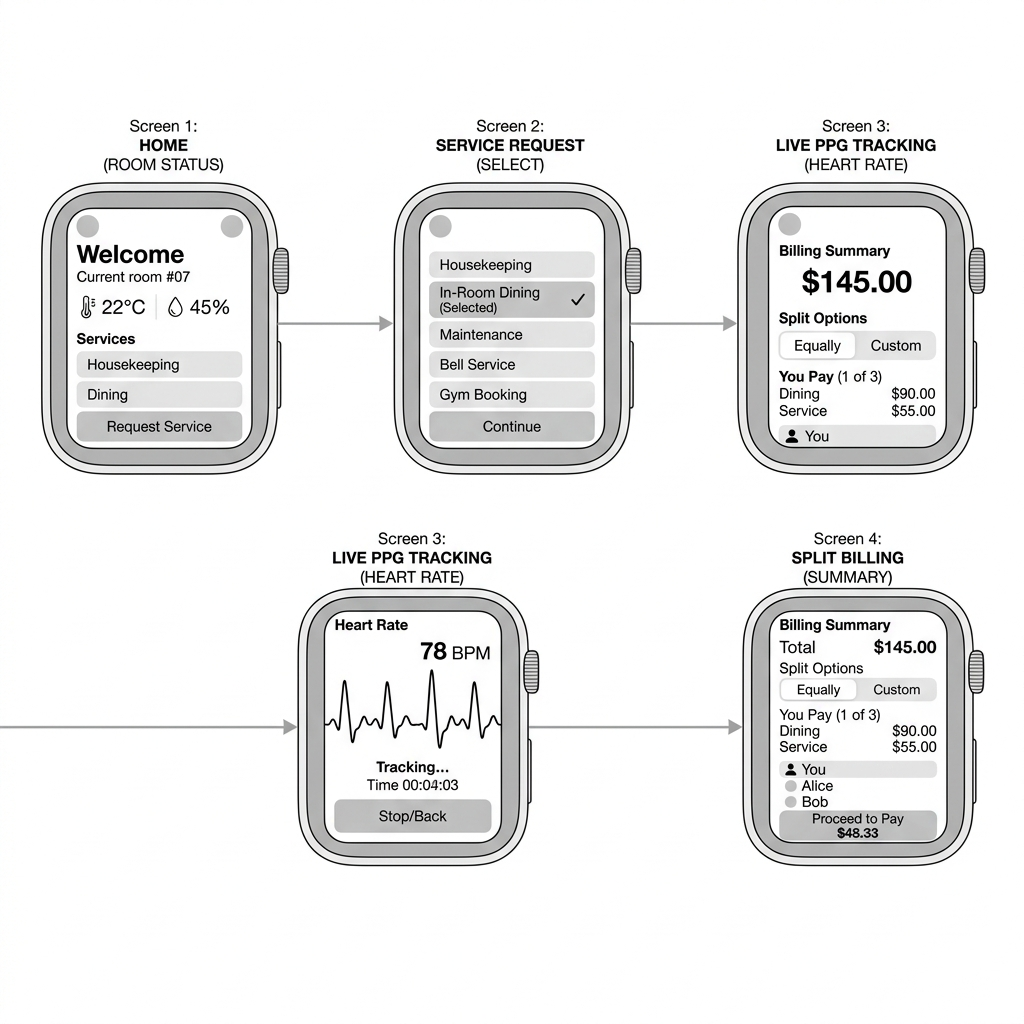
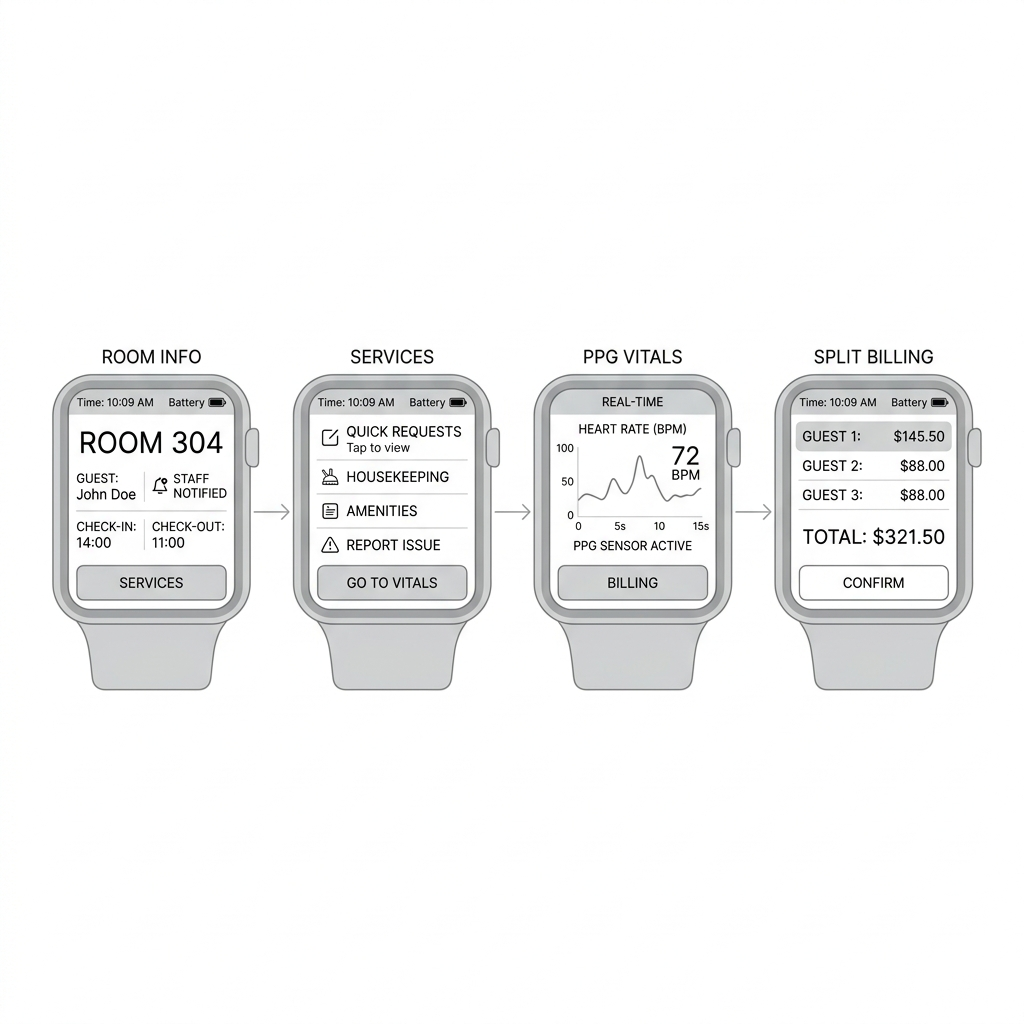
style: unify Section B sketches to rectangular smartwatch casing style and update HTML text descriptions

Changed region(s): [[0.0312, 0.0938, 0.9688, 0.8438]]

diff --git a/index.html b/index.html
@@ -866,7 +866,7 @@
                                 <strong>Iterative Grid Paradigm</strong>
                                 <span class="tag">Usability</span>
                             </div>
-                            <p>Replaced standard list structures with high-contrast, large-target touch bubbles in a 2x2 grid to leverage spatial memory and accommodate degraded motor precision.</p>
+                            <p>Replaced standard list structures with high-contrast, large-target touch tiles in a 2x2 grid to leverage spatial memory and accommodate degraded motor precision.</p>
                         </div>
                         
                         <div class="timeline-card">
@@ -1129,9 +1129,9 @@
                         <img src="./assets/hand_sketches_ideation.png" alt="Ideation Sketches" style="object-position: top;">
                         <div class="sketch-card-desc">
                             <strong>B.1 Ideation Sketches (Week 8)</strong>
-                            <p style="font-size: 0.64rem; color: var(--text-muted); margin-bottom: 5px;">Pencil concepts mapping round watch target sizing and circular button bubble trials.</p>
+                            <p style="font-size: 0.64rem; color: var(--text-muted); margin-bottom: 5px;">Pencil concepts mapping rectangular watch target sizing and square button grid trials.</p>
                             <div style="border-top: 1px dashed var(--card-border); padding-top: 5px; font-size: 0.61rem; color: var(--text-muted); line-height: 1.3;">
-                                <div style="margin-top: 3px;"><strong>Ideation A:</strong> 2x2 circular touch shortcuts.</div>
+                                <div style="margin-top: 3px;"><strong>Ideation A:</strong> 2x2 square touch shortcuts.</div>
                                 <div style="margin-top: 3px;"><strong>Ideation B:</strong> Quick-tap services menu.</div>
                                 <div style="margin-top: 3px;"><strong>Ideation C:</strong> PPG vitals sensor monitor.</div>
                             </div>
@@ -1142,7 +1142,7 @@
                         <img src="./assets/hand_sketches_lofi.png" alt="Lofi Sketches" style="object-position: top;">
                         <div class="sketch-card-desc">
                             <strong>B.2 Paper Wireframes (Week 9)</strong>
-                            <p style="font-size: 0.64rem; color: var(--text-muted); margin-bottom: 5px;">Sketched rectangular casing dimensions, cancel delay rings, and swipe target outlines.</p>
+                            <p style="font-size: 0.64rem; color: var(--text-muted); margin-bottom: 5px;">Sketched rectangular casing dimensions, cancel delay progress bars, and swipe target outlines.</p>
                             <div style="border-top: 1px dashed var(--card-border); padding-top: 5px; font-size: 0.61rem; color: var(--text-muted); line-height: 1.3;">
                                 <div style="margin-top: 3px;"><strong>Screen 1:</strong> 2s hold delay confirmation.</div>
                                 <div style="margin-top: 3px;"><strong>Screen 2:</strong> Safe ride dispatch tracking.</div>